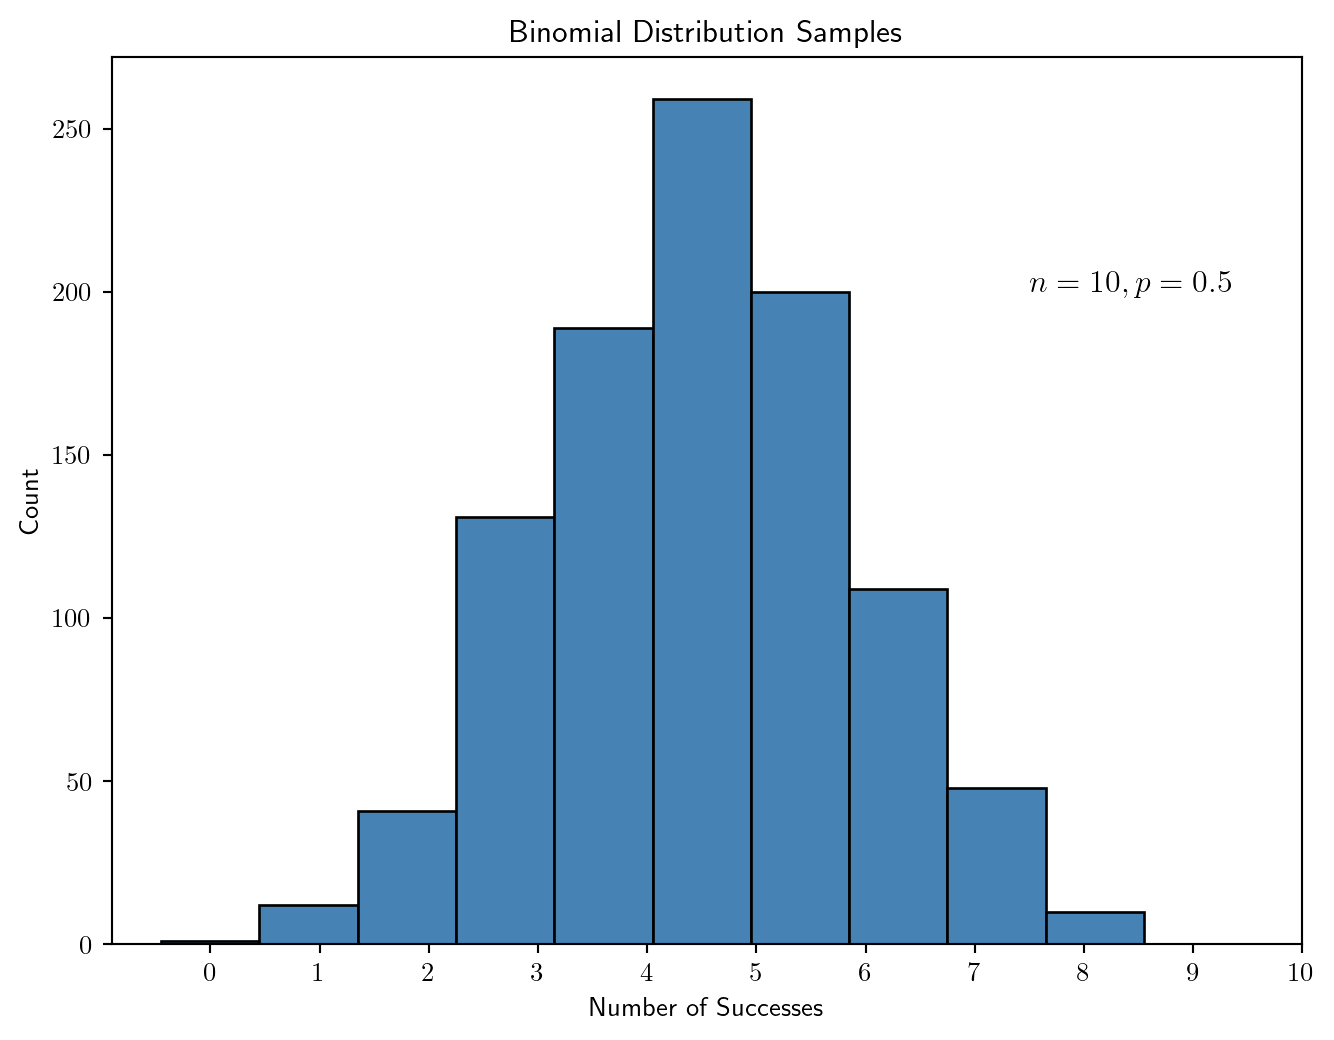
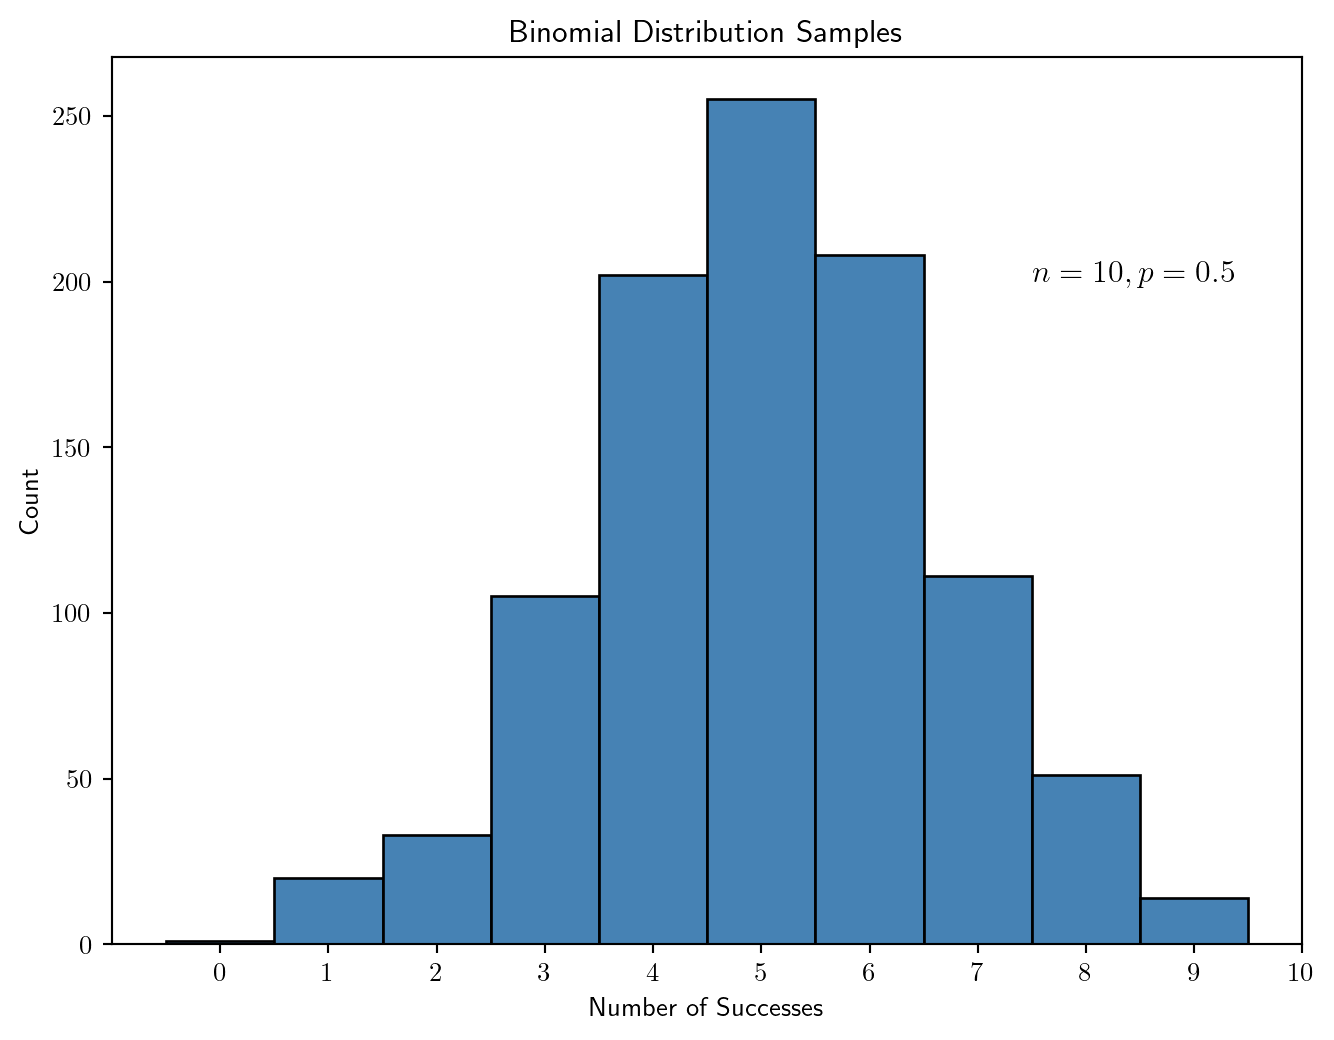
update

diff --git a/_site/biomath_r.html b/_site/biomath_r.html
@@ -586,7 +586,7 @@ f(k,n,p) = \Pr(k;n,p) = \Pr(X = k) = \binom{n}{k}p^k(1-p)^{n-k}
 <div class="cell">
 <div class="sourceCode cell-code" id="cb29"><pre class="sourceCode r code-with-copy"><code class="sourceCode r"><span id="cb29-1"><a href="#cb29-1" aria-hidden="true" tabindex="-1"></a><span class="fu">rbinom</span>(<span class="dv">5</span>,<span class="dv">10</span>,<span class="fl">0.5</span>)</span></code><button title="Copy to Clipboard" class="code-copy-button"><i class="bi"></i></button></pre></div>
 <div class="cell-output cell-output-stdout">
-<pre><code>[1] 4 4 8 3 4</code></pre>
+<pre><code>[1] 4 7 5 3 9</code></pre>
 </div>
 </div>
 <p>Let’s generate a large number of samples and plot a histogram of the results, see <a href="#fig-binom-samples">Figure&nbsp;7</a>.</p>
@@ -642,6 +642,64 @@ f(k,n,p) = \Pr(k;n,p) = \Pr(X = k) = \binom{n}{k}p^k(1-p)^{n-k}
 f(x \mid \mu, \sigma^2) = \frac{1}{\sqrt{2\pi\sigma^2}} \exp\left(-\frac{(x-\mu)^2}{2\sigma^2}\right)
 \]</span></p>
 <p>The parameter <span class="math inline">\(\sigma\)</span> is called the standard deviation.</p>
+<p>Let’s generate a random sample from a normal distribution with <span class="math inline">\(\mu = 5\)</span> and <span class="math inline">\(\sigma = 1.5\)</span>:</p>
+<div class="cell">
+<div class="sourceCode cell-code" id="cb35"><pre class="sourceCode r code-with-copy"><code class="sourceCode r"><span id="cb35-1"><a href="#cb35-1" aria-hidden="true" tabindex="-1"></a><span class="fu">rnorm</span>(<span class="dv">10</span>,<span class="dv">5</span>,<span class="fl">1.5</span>)</span></code><button title="Copy to Clipboard" class="code-copy-button"><i class="bi"></i></button></pre></div>
+<div class="cell-output cell-output-stdout">
+<pre><code> [1] 5.240797 4.755374 7.770057 4.822947 1.989782 7.800462 5.456481 3.690488
+ [9] 6.886131 4.290293</code></pre>
+</div>
+</div>
+<p>Let’s generate a large number of samples and plot a histogram of the results, see <a href="#fig-norm-samples">Figure&nbsp;9</a>.</p>
+<div class="cell">
+<div class="sourceCode cell-code" id="cb37"><pre class="sourceCode r code-with-copy"><code class="sourceCode r"><span id="cb37-1"><a href="#cb37-1" aria-hidden="true" tabindex="-1"></a><span class="co"># plot histogram</span></span>
+<span id="cb37-2"><a href="#cb37-2" aria-hidden="true" tabindex="-1"></a><span class="fu">tibble</span>(<span class="at">x=</span><span class="fu">rnorm</span>(<span class="dv">1000</span>,<span class="dv">5</span>,<span class="fl">1.5</span>)) <span class="sc">|&gt;</span></span>
+<span id="cb37-3"><a href="#cb37-3" aria-hidden="true" tabindex="-1"></a><span class="fu">ggplot</span>(<span class="fu">aes</span>(<span class="at">x =</span> x)) <span class="sc">+</span></span>
+<span id="cb37-4"><a href="#cb37-4" aria-hidden="true" tabindex="-1"></a>  <span class="fu">geom_histogram</span>(<span class="at">binwidth =</span> <span class="dv">1</span>, <span class="at">color =</span> <span class="st">"black"</span>, <span class="at">fill =</span> <span class="st">"steelblue"</span>) <span class="sc">+</span></span>
+<span id="cb37-5"><a href="#cb37-5" aria-hidden="true" tabindex="-1"></a>  <span class="fu">annotate</span>(<span class="st">"text"</span>, <span class="at">x =</span> <span class="dv">9</span>, <span class="at">y =</span> <span class="dv">200</span>, <span class="at">label =</span> <span class="fu">TeX</span>(<span class="st">"$</span><span class="sc">\\</span><span class="st">mu=5, </span><span class="sc">\\</span><span class="st">sigma=1.5$"</span>), <span class="at">size =</span> <span class="dv">5</span>) <span class="sc">+</span></span>
+<span id="cb37-6"><a href="#cb37-6" aria-hidden="true" tabindex="-1"></a>  <span class="fu">theme_bw</span>(<span class="at">base_size=</span><span class="dv">13</span>) <span class="sc">+</span></span>
+<span id="cb37-7"><a href="#cb37-7" aria-hidden="true" tabindex="-1"></a>  <span class="fu">labs</span>(<span class="at">x =</span> <span class="st">"x"</span>, <span class="at">y =</span> <span class="st">"Count"</span>, </span>
+<span id="cb37-8"><a href="#cb37-8" aria-hidden="true" tabindex="-1"></a>       <span class="at">title =</span> <span class="st">"Normal Distribution Samples"</span>)</span></code><button title="Copy to Clipboard" class="code-copy-button"><i class="bi"></i></button></pre></div>
+<div class="cell-output-display">
+<div id="fig-norm-samples" class="quarto-figure quarto-figure-center anchored">
+<figure class="figure">
+<p><img src="biomath_r_files/figure-html/fig-norm-samples-1.png" class="img-fluid figure-img" width="672"></p>
+<figcaption class="figure-caption">Figure&nbsp;9: Histogram of 1000 samples from a normal distribution with <span class="math inline">\(\mu = 5\)</span> and <span class="math inline">\(\sigma = 1.5\)</span>.</figcaption>
+</figure>
+</div>
+</div>
+</div>
+<p>Next, let’s plot the probability density function for a normal distribution with <span class="math inline">\(\mu = 5\)</span> and <span class="math inline">\(\sigma = 1.5\)</span>, see <a href="#fig-norm-pdf">Figure&nbsp;10</a>.</p>
+<div class="cell">
+<div class="sourceCode cell-code" id="cb38"><pre class="sourceCode r code-with-copy"><code class="sourceCode r"><span id="cb38-1"><a href="#cb38-1" aria-hidden="true" tabindex="-1"></a><span class="co"># plot pdf</span></span>
+<span id="cb38-2"><a href="#cb38-2" aria-hidden="true" tabindex="-1"></a><span class="fu">tibble</span>(<span class="at">x=</span><span class="fu">c</span>(<span class="dv">0</span>,<span class="dv">10</span>)) <span class="sc">|&gt;</span></span>
+<span id="cb38-3"><a href="#cb38-3" aria-hidden="true" tabindex="-1"></a><span class="fu">ggplot</span>(<span class="fu">aes</span>(<span class="at">x =</span> x)) <span class="sc">+</span></span>
+<span id="cb38-4"><a href="#cb38-4" aria-hidden="true" tabindex="-1"></a>  <span class="fu">geom_function</span>(<span class="at">fun=</span><span class="cf">function</span>(x){<span class="fu">dnorm</span>(x,<span class="dv">5</span>,<span class="fl">1.5</span>)},<span class="at">color =</span> <span class="st">"steelblue"</span>,<span class="at">linewidth=</span><span class="dv">1</span>) <span class="sc">+</span></span>
+<span id="cb38-5"><a href="#cb38-5" aria-hidden="true" tabindex="-1"></a>  <span class="fu">annotate</span>(<span class="st">"text"</span>, <span class="at">x =</span> <span class="dv">9</span>, <span class="at">y =</span> <span class="fl">0.2</span>, <span class="at">label =</span> <span class="fu">TeX</span>(<span class="st">"$</span><span class="sc">\\</span><span class="st">mu=5, </span><span class="sc">\\</span><span class="st">sigma=1.5$"</span>), <span class="at">size =</span> <span class="dv">5</span>) <span class="sc">+</span></span>
+<span id="cb38-6"><a href="#cb38-6" aria-hidden="true" tabindex="-1"></a>  <span class="fu">theme_bw</span>(<span class="at">base_size=</span><span class="dv">13</span>) <span class="sc">+</span></span>
+<span id="cb38-7"><a href="#cb38-7" aria-hidden="true" tabindex="-1"></a>  <span class="fu">labs</span>(<span class="at">x =</span> <span class="st">"x"</span>, <span class="at">y =</span> <span class="st">"Probability"</span>, </span>
+<span id="cb38-8"><a href="#cb38-8" aria-hidden="true" tabindex="-1"></a>       <span class="at">title =</span> <span class="st">"Normal Distribution PDF"</span>)</span></code><button title="Copy to Clipboard" class="code-copy-button"><i class="bi"></i></button></pre></div>
+<div class="cell-output-display">
+<div id="fig-norm-pdf" class="quarto-figure quarto-figure-center anchored">
+<figure class="figure">
+<p><img src="biomath_r_files/figure-html/fig-norm-pdf-1.png" class="img-fluid figure-img" width="672"></p>
+<figcaption class="figure-caption">Figure&nbsp;10: Probability density function for a normal distribution with <span class="math inline">\(\mu = 5\)</span> and <span class="math inline">\(\sigma = 1.5\)</span>.</figcaption>
+</figure>
+</div>
+</div>
+</div>
+<p>For a random variable <span class="math inline">\(X \sim \text{Norm}(\mu=5,\sigma=1.5)\)</span>, the probability that <span class="math inline">\(X\)</span> is between <span class="math inline">\(3\)</span> and <span class="math inline">\(7\)</span> is given by:</p>
+<p><span class="math display">\[
+P(3 \leq X \leq 7) = \int_{3}^{7} \frac{1}{\sqrt{2\pi \cdot 1.5^2}} \exp\left(-\frac{(x-5)^2}{2 \cdot 1.5^2}\right) dx
+\]</span></p>
+<p>which we can compute in R using:</p>
+<div class="cell">
+<div class="sourceCode cell-code" id="cb39"><pre class="sourceCode r code-with-copy"><code class="sourceCode r"><span id="cb39-1"><a href="#cb39-1" aria-hidden="true" tabindex="-1"></a><span class="fu">pnorm</span>(<span class="dv">7</span>,<span class="dv">5</span>,<span class="fl">1.5</span>) <span class="sc">-</span> <span class="fu">pnorm</span>(<span class="dv">3</span>,<span class="dv">5</span>,<span class="fl">1.5</span>)</span></code><button title="Copy to Clipboard" class="code-copy-button"><i class="bi"></i></button></pre></div>
+<div class="cell-output cell-output-stdout">
+<pre><code>[1] 0.8175776</code></pre>
+</div>
+</div>
+<p>Thus, the area under the normal density curve with <span class="math inline">\(\mu=5\)</span> and <span class="math inline">\(\sigma=1.5\)</span> between <span class="math inline">\(3\)</span> and <span class="math inline">\(7\)</span> is about 0.82.</p>
 </section>
 </section>
 <section id="symbolic-math" class="level2">

diff --git a/_site/biomath_python.html b/_site/biomath_python.html
@@ -631,7 +631,7 @@ div.csl-indent {
 \]</span></p>
 <p>Often, in order to have a complete model, we need to specify both initial conditions and boundary conditions for the PDE problem. For example in the case of the one-dimensional heat equation, we might specify the initial temperature distribution <span class="math inline">\(c(x,0)\)</span> and the values of the flux at the boundaries, that is <span class="math inline">\(\frac{\partial c}{\partial x}(0,t)\)</span> and <span class="math inline">\(\frac{\partial c}{\partial x}(L,t)\)</span> for <span class="math inline">\(t&gt;0\)</span>.</p>
 <p>There are many approaches to the numerical solution of PDEs. We will focus on the <a href="http://www.scholarpedia.org/article/Method_of_lines">method of lines</a> which discretizes the spatial domain and then uses ODE solvers such as those we previously described to solve the resulting system of ODEs.</p>
-<p>For Julia, the <a href="https://py-pde.readthedocs.io/en/latest/getting_started.html"><code>py-pde</code></a> module is available to facilitate the implementation of the method of lines for PDEs. The following links illustrate the use of this package:</p>
+<p>For Python, the <a href="https://py-pde.readthedocs.io/en/latest/getting_started.html"><code>py-pde</code></a> module is available to facilitate the implementation of the method of lines for PDEs. The following links illustrate the use of this package:</p>
 <ul>
 <li><a href="https://biomath-computing.netlify.app/notebooks/diffusion_models_py/">Numerical solution of the heat equation in Python</a> - this page demonstrates using the <code>py-pde</code> module to obtain and visualize numerical solutions for the heat equation in one dimension.</li>
 </ul>
@@ -721,7 +721,7 @@ f(k,n,p) = \Pr(k;n,p) = \Pr(X = k) = \binom{n}{k}p^k(1-p)^{n-k}
 <div class="cell" data-execution_count="28">
 <div class="sourceCode cell-code" id="cb44"><pre class="sourceCode python code-with-copy"><code class="sourceCode python"><span id="cb44-1"><a href="#cb44-1" aria-hidden="true" tabindex="-1"></a>binom_rv.rvs(size<span class="op">=</span><span class="dv">10</span>)</span></code><button title="Copy to Clipboard" class="code-copy-button"><i class="bi"></i></button></pre></div>
 <div class="cell-output cell-output-display" data-execution_count="28">
-<pre><code>array([5, 3, 8, 5, 4, 5, 3, 5, 2, 4])</code></pre>
+<pre><code>array([4, 6, 5, 6, 7, 5, 3, 8, 3, 6])</code></pre>
 </div>
 </div>
 <p>Let’s generate a large number of samples and plot a histogram of the results, see <a href="#fig-binom-samples">Figure&nbsp;5</a>.</p>
